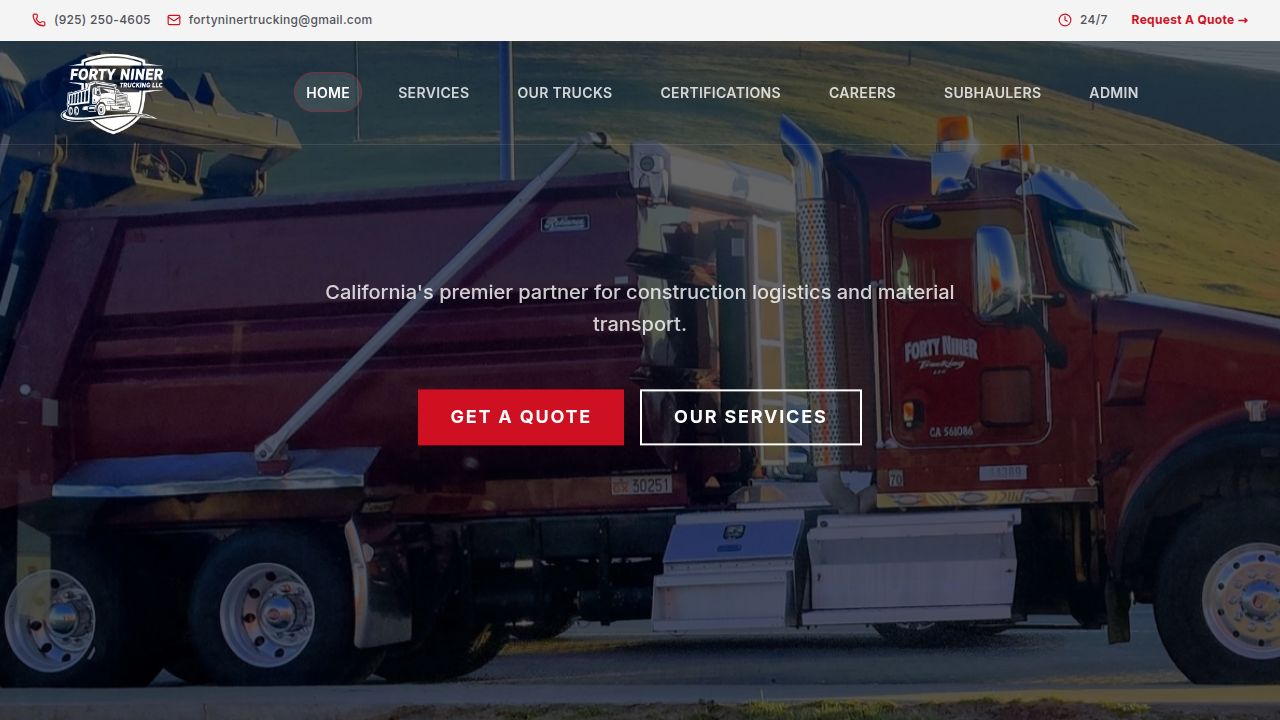
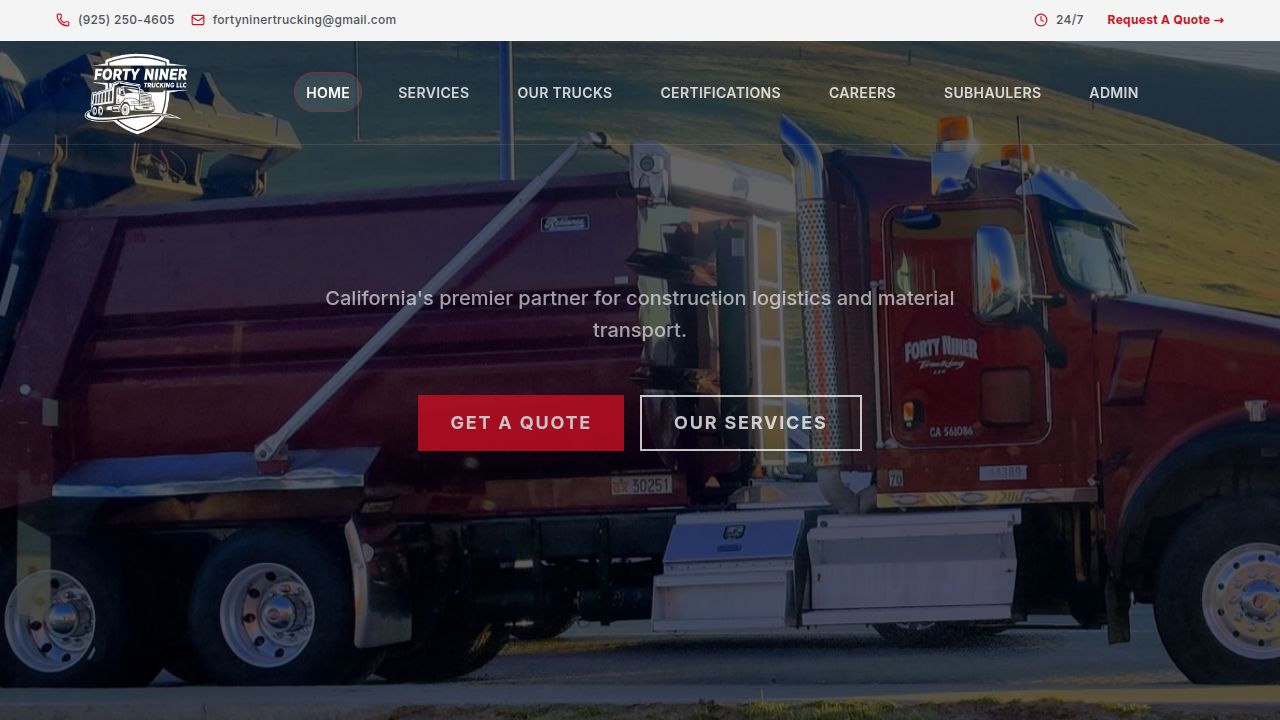
Restored to '444b4e67645fb9343b326c093c363e2828e2df5a'
Replit-Restored-To: 444b4e67645fb9343b326c093c363e2828e2df5a

diff --git a/client/src/components/Navbar.tsx b/client/src/components/Navbar.tsx
@@ -29,8 +29,8 @@ export function Navbar() {
   const isHome = location === "/";
   // Always solid background when scrolled, transparent only at very top of home
   const navbarClasses = scrolled 
-    ? "bg-white/90 backdrop-blur-md shadow-sm py-0 lg:py-2 border-b border-zinc-200" 
-    : (isHome ? "bg-transparent py-0 lg:py-4 border-b border-white/10" : "bg-white py-0 lg:py-4 border-b border-zinc-200");
+    ? "bg-white/90 backdrop-blur-md shadow-sm py-2 border-b border-zinc-200" 
+    : (isHome ? "bg-transparent py-4 border-b border-white/10" : "bg-white py-4 border-b border-zinc-200");
 
   const logoClasses = scrolled 
     ? "w-24 brightness-0" 
@@ -130,11 +130,11 @@ export function Navbar() {
             animate={{ opacity: 1, x: 0 }}
             exit={{ opacity: 0, x: "100%" }}
             transition={{ type: "spring", bounce: 0, duration: 0.4 }}
-            className="fixed inset-0 z-[100] bg-white text-zinc-900 p-0 lg:hidden flex flex-col"
+            className="fixed inset-0 z-[60] bg-white text-zinc-900 p-0 lg:hidden flex flex-col"
           >
             <div className="flex justify-between items-center p-6 border-b border-zinc-100">
-              <div className="h-auto w-[160px] relative flex items-center">
-                 <img src={logo} alt="FortyNiner Trucking" className="w-full h-auto max-h-[80px] object-contain brightness-0" />
+              <div className="h-12 w-auto relative flex items-center">
+                 <img src={logo} alt="FortyNiner Trucking" className="h-full w-auto object-contain brightness-0" />
               </div>
               <button 
                 onClick={() => setIsMobileMenuOpen(false)}
@@ -144,14 +144,14 @@ export function Navbar() {
               </button>
             </div>
             
-            <div className="flex-1 overflow-y-auto p-6 flex flex-col justify-start gap-1">
+            <div className="flex-1 overflow-y-auto p-6 flex flex-col justify-center gap-2">
               {navLinks.map((item, idx) => (
                 <Link key={item.name} href={item.href}>
                   <motion.div 
                     initial={{ opacity: 0, x: 50 }}
                     animate={{ opacity: 1, x: 0 }}
                     transition={{ delay: idx * 0.1 }}
-                    className={`text-base font-bold uppercase tracking-widest py-3 border-b border-zinc-50/50 cursor-pointer flex items-center justify-between group ${location === item.href ? 'text-primary' : 'text-zinc-600'}`}
+                    className={`text-lg font-bold uppercase tracking-widest py-4 border-b border-zinc-50 cursor-pointer flex items-center justify-between group ${location === item.href ? 'text-primary' : 'text-zinc-600'}`}
                     onClick={() => setIsMobileMenuOpen(false)}
                   >
                     {item.name}

diff --git a/client/src/pages/fleet.tsx b/client/src/pages/fleet.tsx
@@ -3,7 +3,6 @@ import { Navbar } from "@/components/Navbar";
 import Footer from "@/components/Footer";
 import { Truck, ArrowDown, Shield, Award, Gauge } from "lucide-react";
 import { Button } from "@/components/ui/button";
-import heroDumpTruck from "@/assets/hero-dump-truck.jpg";
 
 export default function Fleet() {
   return (
@@ -11,11 +10,11 @@ export default function Fleet() {
       <Navbar />
 
       {/* Modern Fleet Hero */}
-      <section className="relative min-h-[85vh] w-full overflow-hidden bg-zinc-900 py-16 mt-[72px] lg:mt-[112px]">
+      <section className="relative min-h-[85vh] w-full overflow-hidden bg-zinc-900 py-16">
         {/* Background Image */}
         <div className="absolute inset-0 z-0">
            <img 
-             src={heroDumpTruck} 
+             src="https://images.unsplash.com/photo-1601584115197-04ecc0da31d7?q=80&w=2940&auto=format&fit=crop" 
              alt="Fleet Hero" 
              className="w-full h-full object-cover object-center opacity-40"
            />
